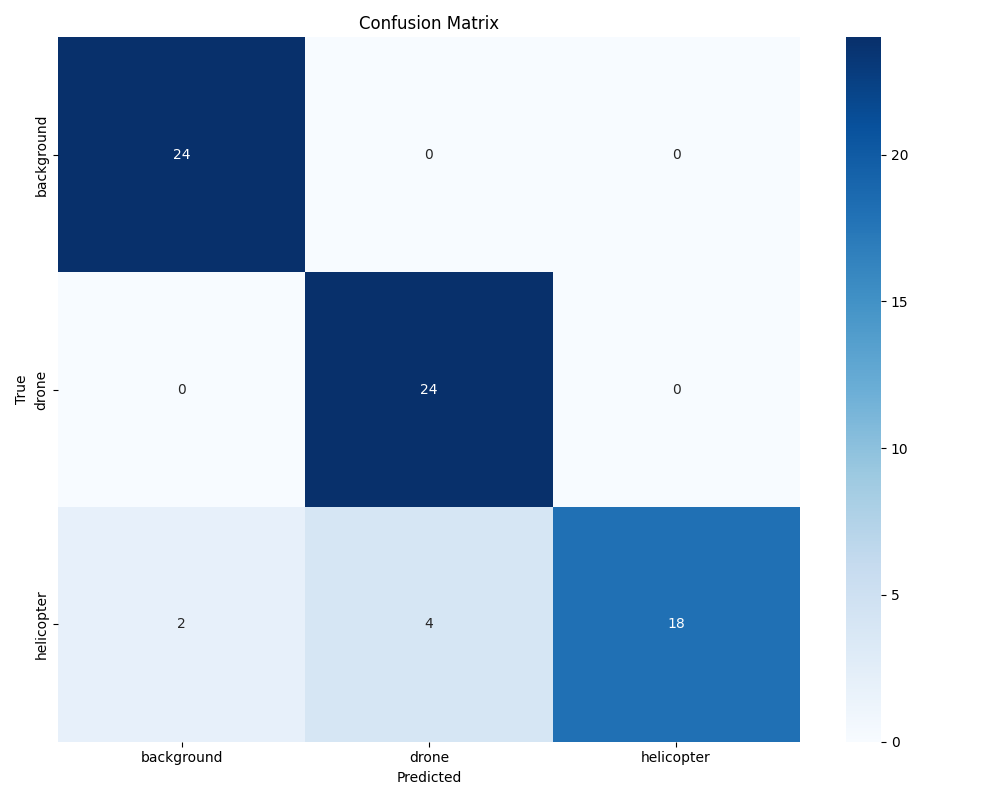
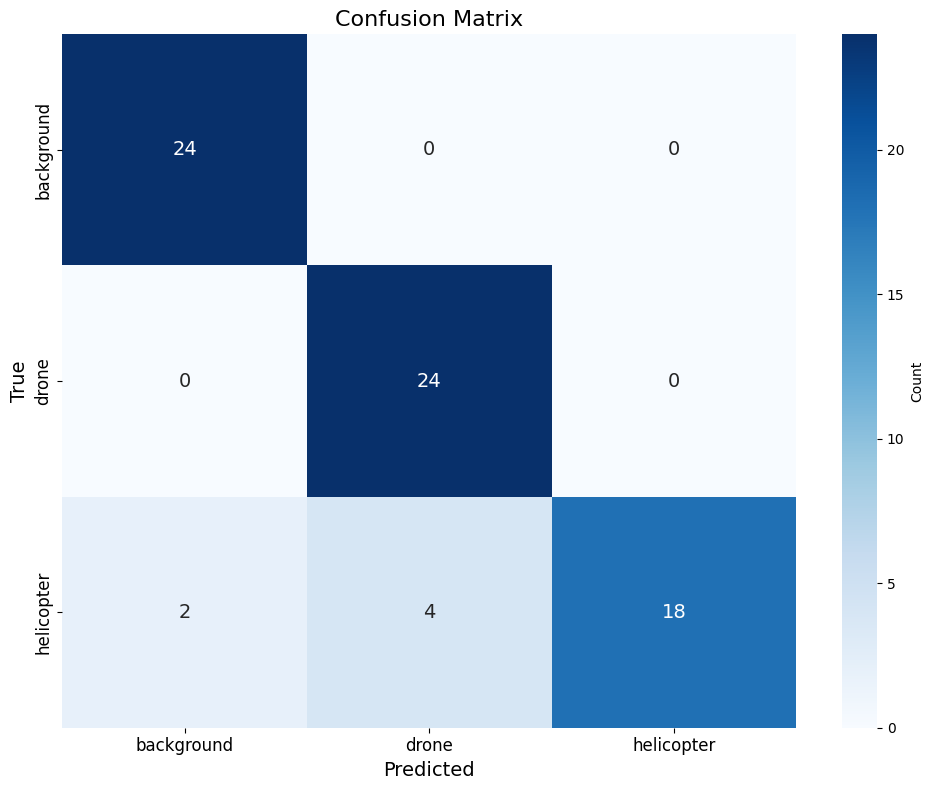
Working sweep, fixed eval

diff --git a/evaluate.py b/evaluate.py
@@ -1,5 +1,5 @@
 from sklearn.metrics import classification_report, confusion_matrix
-from model import NoiseClassifier, MelClassifier, TinyMelClassifier
+from model import NoiseClassifier, MelClassifier, TinyMelClassifier, MelTransformerClassifier
 from dataset import LDTH2025Dataset, LDTH2025DatasetMel, LDTH2025DatasetRaw
 import torch
 from torch.utils.data import DataLoader
@@ -16,21 +16,34 @@ def scores(y_true, y_pred):
     # Create figure and axis
     plt.figure(figsize=(10, 8))
     
-    # Create heatmap using seaborn
+    # Create heatmap using seaborn with larger font sizes
     sns.heatmap(cm, annot=True, fmt='d', cmap='Blues',
                 xticklabels=test_dataset.classes,
-                yticklabels=test_dataset.classes)
+                yticklabels=test_dataset.classes,
+                annot_kws={'size': 14},  # Size for the numbers in the cells
+                cbar_kws={'label': 'Count'})
     
-    # Add labels and title
-    plt.xlabel('Predicted')
-    plt.ylabel('True')
-    plt.title('Confusion Matrix')
+    # Add labels and title with larger font sizes
+    plt.xlabel('Predicted', fontsize=14)
+    plt.ylabel('True', fontsize=14)
+    plt.title('Confusion Matrix', fontsize=16)
+    
+    # Make background transparent
+    plt.gca().set_facecolor('none')
+    plt.gcf().set_facecolor('none')
+    
+    # Increase tick label sizes
+    plt.xticks(fontsize=12)
+    plt.yticks(fontsize=12)
     
     # Adjust layout to prevent label cutoff
     plt.tight_layout()
     
-    # Save the plot
-    plt.savefig(f'confusion_matrix_{RUN_NAME}_epoch_{EPOCH}.png')
+    # Save the plot with transparent background
+    plt.savefig(f'confusion_matrix_{RUN_NAME}_epoch_{EPOCH}.png', 
+                transparent=True,
+                bbox_inches='tight',
+                pad_inches=0.1)
     plt.close()
     
     # Print metrics
@@ -38,6 +51,7 @@ def scores(y_true, y_pred):
 
 if __name__ == "__main__":
     device = torch.device("cuda" if torch.cuda.is_available() else "cpu")
+    torch.manual_seed(0)
 
     # RUN_NAME = "desert-voice-8"
     # EPOCH = 100
@@ -108,4 +122,28 @@ if __name__ == "__main__":
     print(f"Time taken: {time() - start_time} seconds")
     print(f"Time per sample: {(time() - start_time) / len(test_loader)} seconds")    
     scores(y_true, y_pred)
+
+    # RUN_NAME = "valiant-serenity-27"
+    # EPOCH = 95
+
+    # model = MelTransformerClassifier().to(device)
+    # model.load_state_dict(load_file(f"model/{RUN_NAME}/model_{EPOCH}.safetensors"))
+    # model.to(device)
+    # model.eval()
+    # test_dataset = LDTH2025DatasetRaw(data_path="data/raw", split="test")
+    # test_loader = DataLoader(test_dataset, batch_size=16, shuffle=False)
+    # y_true = []
+    # y_pred = []
+    # start_time = time()
+    # with torch.no_grad():
+    #     for batch in test_loader:
+    #         audio, label = batch
+    #         audio = audio.to(device)
+    #         output, attn_weights = model(audio)
+    #         y_true.extend(label.cpu().numpy())
+    #         y_pred.extend(output.argmax(dim=1).cpu().numpy())
+    # print(f"Time taken: {time() - start_time} seconds")
+    # print(f"Time per sample: {(time() - start_time) / len(test_loader)} seconds")    
+    # scores(y_true, y_pred)
+    
 

diff --git a/train_mel_transformer.py b/train_mel_transformer.py
@@ -1,4 +1,4 @@
-from model import TinyMelClassifier
+from model import MelTransformerClassifier
 from dataset import LDTH2025DatasetRaw
 from torch.utils.data import DataLoader
 import torch
@@ -11,16 +11,16 @@ if __name__ == "__main__":
     torch.manual_seed(0)
 
     device = torch.device("cuda" if torch.cuda.is_available() else "cpu")
-    model = TinyMelClassifier().to(device)
-    train_dataset = LDTH2025DatasetRaw(data_path="data/augmented", split="train")
-    test_dataset = LDTH2025DatasetRaw(data_path="data/augmented", split="test")
+    model = MelTransformerClassifier().to(device)
+    train_dataset = LDTH2025DatasetRaw(data_path="data/raw", split="train")
+    test_dataset = LDTH2025DatasetRaw(data_path="data/raw", split="test")
 
-    batch_size = 18
+    batch_size = 16
     epochs = 100
     learning_rate = 1e-4
 
     train_loader = DataLoader(train_dataset, batch_size=batch_size, num_workers=4, shuffle=True)
-    test_loader = DataLoader(test_dataset, batch_size=batch_size, num_workers=4, shuffle=False)
+    test_loader = DataLoader(test_dataset, batch_size=batch_size, num_workers=4, shuffle=True)
 
     optimizer = torch.optim.Adam(model.parameters(), lr=learning_rate)
     criterion = torch.nn.CrossEntropyLoss()
@@ -41,7 +41,7 @@ if __name__ == "__main__":
             mel = mel.to(device)
             label = label.to(device)
             optimizer.zero_grad()
-            output = model(mel)
+            output, attn_weights = model(mel)
             loss = criterion(output, label)
             loss.backward()
             optimizer.step()
@@ -50,7 +50,7 @@ if __name__ == "__main__":
                 test_mel, test_label = test_batch
                 test_mel = test_mel.to(device)
                 test_label = test_label.to(device)
-                test_output = model(test_mel)
+                test_output, test_attn_weights = model(test_mel)
                 test_loss = criterion(test_output, test_label)
                 accuracy = (test_output.argmax(dim=1) == test_label).float().mean().item()
             epoch_loss.append(loss.item())
@@ -66,7 +66,7 @@ if __name__ == "__main__":
         epoch_loss = sum(epoch_loss) / len(epoch_loss)
         epoch_test_loss = sum(epoch_test_loss) / len(epoch_test_loss)
         epoch_accuracy = sum(epoch_accuracy) / len(epoch_accuracy)
-        print(f"\r[Epoch {epoch+1}/{epochs}] Loss: {epoch_loss:.4f}, Test Loss: {epoch_test_loss:.4f}, Accuracy: {epoch_accuracy:.4f}                                       ")
+        print(f"\r[Epoch {epoch+1}/{epochs}] Loss: {epoch_loss:.4f}, Test Loss: {epoch_test_loss:.4f}, Accuracy: {epoch_accuracy:.4f}                   ")
         model_path = os.path.join("model", wandb.run.name, f"model_{epoch+1}.safetensors")
         os.makedirs(os.path.dirname(model_path), exist_ok=True)
         save_file(model.state_dict(), model_path)

diff --git a/model.py b/model.py
@@ -8,6 +8,8 @@ class NoiseClassifier(nn.Module):
     def __init__(self):
         super().__init__()
         self.encoder = EncodecModel.from_pretrained("facebook/encodec_24khz")
+        for params in self.encoder.parameters():
+            params.requires_grad = False
         self.batch_norm = nn.BatchNorm1d(375 * 2)
         self.fc = nn.Linear(375 * 2 * 1200, 3)
 
@@ -157,6 +159,7 @@ if __name__ == "__main__":
     # model = NoiseClassifier()
     # dummy_audio = torch.randn(8, 1, 120000)
     # dummy_mask = torch.ones(8, 1, 120000)
+    # print(torch.tensor([param.numel() for param in model.parameters()]).sum())
     # print(model(dummy_audio, dummy_mask).shape)
 
     # model = MelClassifier()
@@ -169,12 +172,12 @@ if __name__ == "__main__":
     print(torch.tensor([param.numel() for param in model.parameters()]).sum())
     print(model(dummy_mel).shape)
 
-    model = TinyMelClassifier(n_fft=2048, hop_length=1024, n_mels=128)
-    dummy_mel = torch.randn(8, 1, 220500)
-    print(torch.tensor([param.numel() for param in model.parameters()]).sum())
-    print(model(dummy_mel).shape)
+    # model = TinyMelClassifier(n_fft=2048, hop_length=1024, n_mels=128)
+    # dummy_mel = torch.randn(8, 1, 220500)
+    # print(torch.tensor([param.numel() for param in model.parameters()]).sum())
+    # print(model(dummy_mel).shape)
 
-    model = MelTransformerClassifier()
-    dummy_mel = torch.randn(8, 1, 220500)
-    print(torch.tensor([param.numel() for param in model.parameters()]).sum())
-    print(model(dummy_mel)[0].shape)
+    # model = MelTransformerClassifier()
+    # dummy_mel = torch.randn(8, 1, 220500)
+    # print(torch.tensor([param.numel() for param in model.parameters()]).sum())
+    # print(model(dummy_mel)[0].shape)

diff --git a/show_spectro.py b/show_spectro.py
@@ -1,0 +1,26 @@
+from dataset import LDTH2025DatasetMel
+import matplotlib.pyplot as plt
+from tqdm import tqdm
+
+dataset = LDTH2025DatasetMel(data_path="data/raw", split="train")
+
+if __name__ == "__main__":
+    for i in tqdm(range(len(dataset))):
+        spectrogram, label = dataset[i]
+
+        label_name = dataset.classes[label]
+    
+        # Convert to numpy and transpose to get time on x-axis
+        spectrogram_np = spectrogram.squeeze(0).numpy()
+        
+        plt.figure(figsize=(10, 4))
+        plt.imshow(spectrogram_np, aspect='auto', origin='lower')
+        plt.colorbar(label='dB')
+        plt.xlabel('Time')
+        plt.ylabel('Mel Frequency')
+        plt.title('Mel Spectrogram')
+        plt.gca().set_facecolor('none')
+        plt.gcf().set_facecolor('none')
+        plt.tight_layout()
+        plt.savefig(f"spectrograms/{label_name}/spectrogram_{i}.png", transparent=True)
+        plt.close()

diff --git a/train_mel.py b/train_mel.py
@@ -1,4 +1,4 @@
-from model import MelClassifier
+from model import MelClassifier, MelTransformerClassifier
 from dataset import LDTH2025DatasetMel
 from torch.utils.data import DataLoader
 import torch
@@ -36,6 +36,7 @@ if __name__ == "__main__":
         epoch_test_loss = []
         epoch_accuracy = []
         for i, (batch, test_batch) in enumerate(zip(train_loader, itertools.cycle(test_loader))):
+            model.train()
             mel, label = batch
             mel = mel.to(device)
             label = label.to(device)
@@ -45,6 +46,7 @@ if __name__ == "__main__":
             loss.backward()
             optimizer.step()
             with torch.no_grad():
+                model.eval()
                 test_mel, test_label = test_batch
                 test_mel = test_mel.to(device)
                 test_label = test_label.to(device)

diff --git a/spectro_sweep.py b/spectro_sweep.py
@@ -49,6 +49,7 @@ def main():
         epoch_loss = []
         epoch_test_loss = []
         epoch_accuracy = []
+        model.train()
         for i, batch in enumerate(train_loader):
             mel, label = batch
             mel = mel.to(device)
@@ -62,6 +63,7 @@ def main():
             
         epoch_loss = sum(epoch_loss) / len(epoch_loss)
 
+        model.eval()
         for i, batch in enumerate(test_loader):
             mel, label = batch
             mel = mel.to(device)
@@ -85,4 +87,4 @@ if __name__ == "__main__":
     sweep_id = wandb.sweep(sweep=sweep_configuration, project=project)
 
     # Start the sweep job
-    wandb.agent(sweep_id, function=main, count=4)
+    wandb.agent(sweep_id, function=main)

diff --git a/train.py b/train.py
@@ -15,12 +15,12 @@ if __name__ == "__main__":
     train_dataset = LDTH2025Dataset(data_path="data/raw", split="train")
     test_dataset = LDTH2025Dataset(data_path="data/raw", split="test")
 
-    batch_size = 16
+    batch_size = 18
     epochs = 100
     learning_rate = 1e-4
 
     train_loader = DataLoader(train_dataset, batch_size=batch_size, num_workers=4, shuffle=True)
-    test_loader = DataLoader(test_dataset, batch_size=batch_size, num_workers=4, shuffle=True)
+    test_loader = DataLoader(test_dataset, batch_size=batch_size, num_workers=4, shuffle=False)
 
     optimizer = torch.optim.Adam(model.parameters(), lr=learning_rate)
     criterion = torch.nn.CrossEntropyLoss()

diff --git a/dataset.py b/dataset.py
@@ -134,5 +134,4 @@ if __name__ == "__main__":
     print(len(raw_dataset))
     print(raw_dataset[0])
     print("Raw: ", raw_dataset[0][0].shape)
-    
-        
+    print(raw_dataset.classes)
